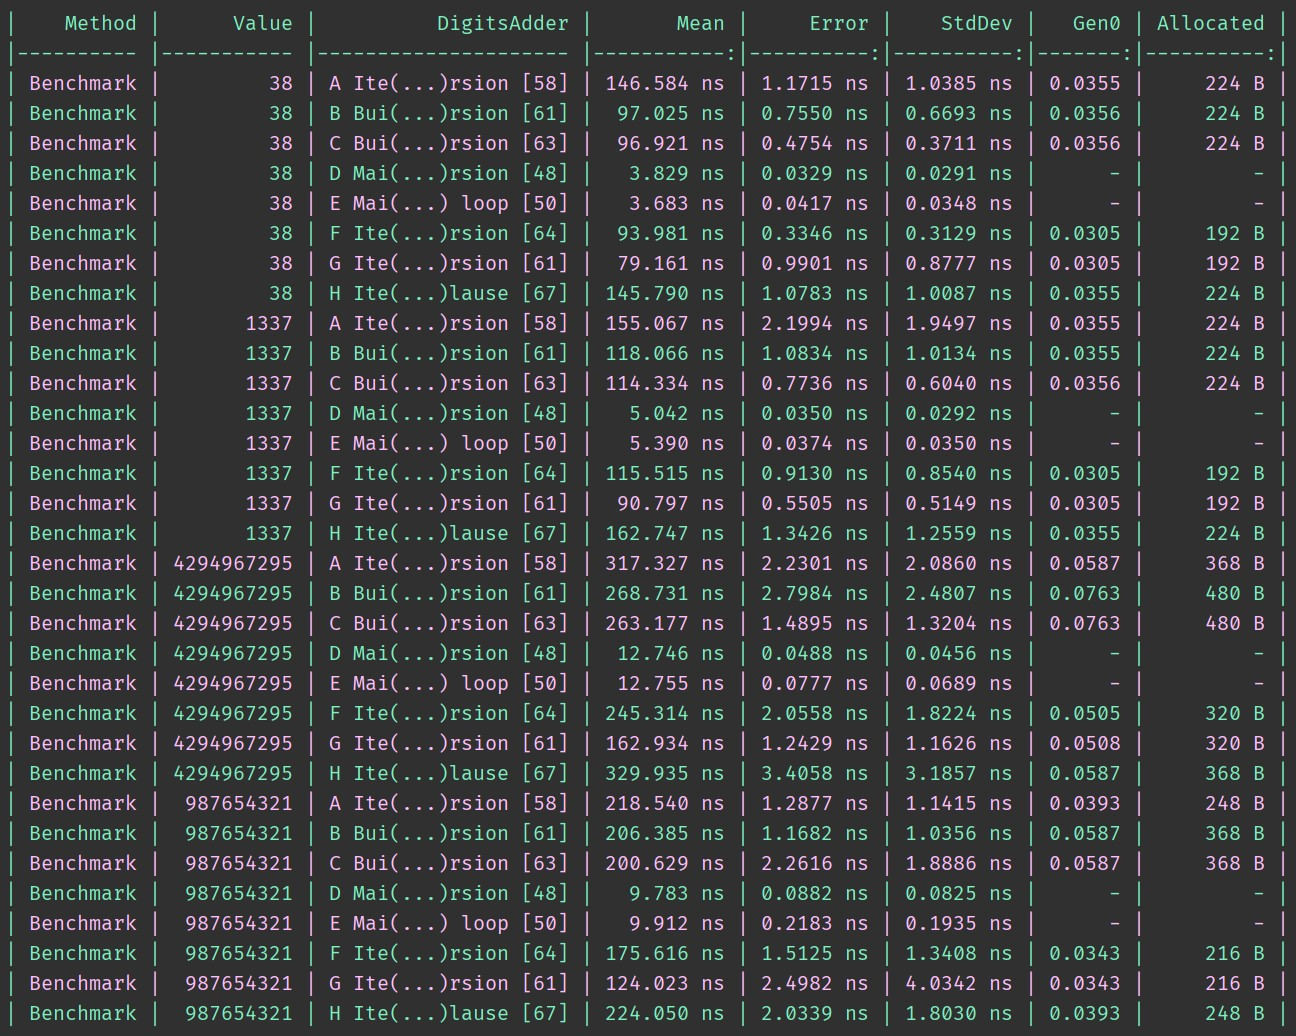
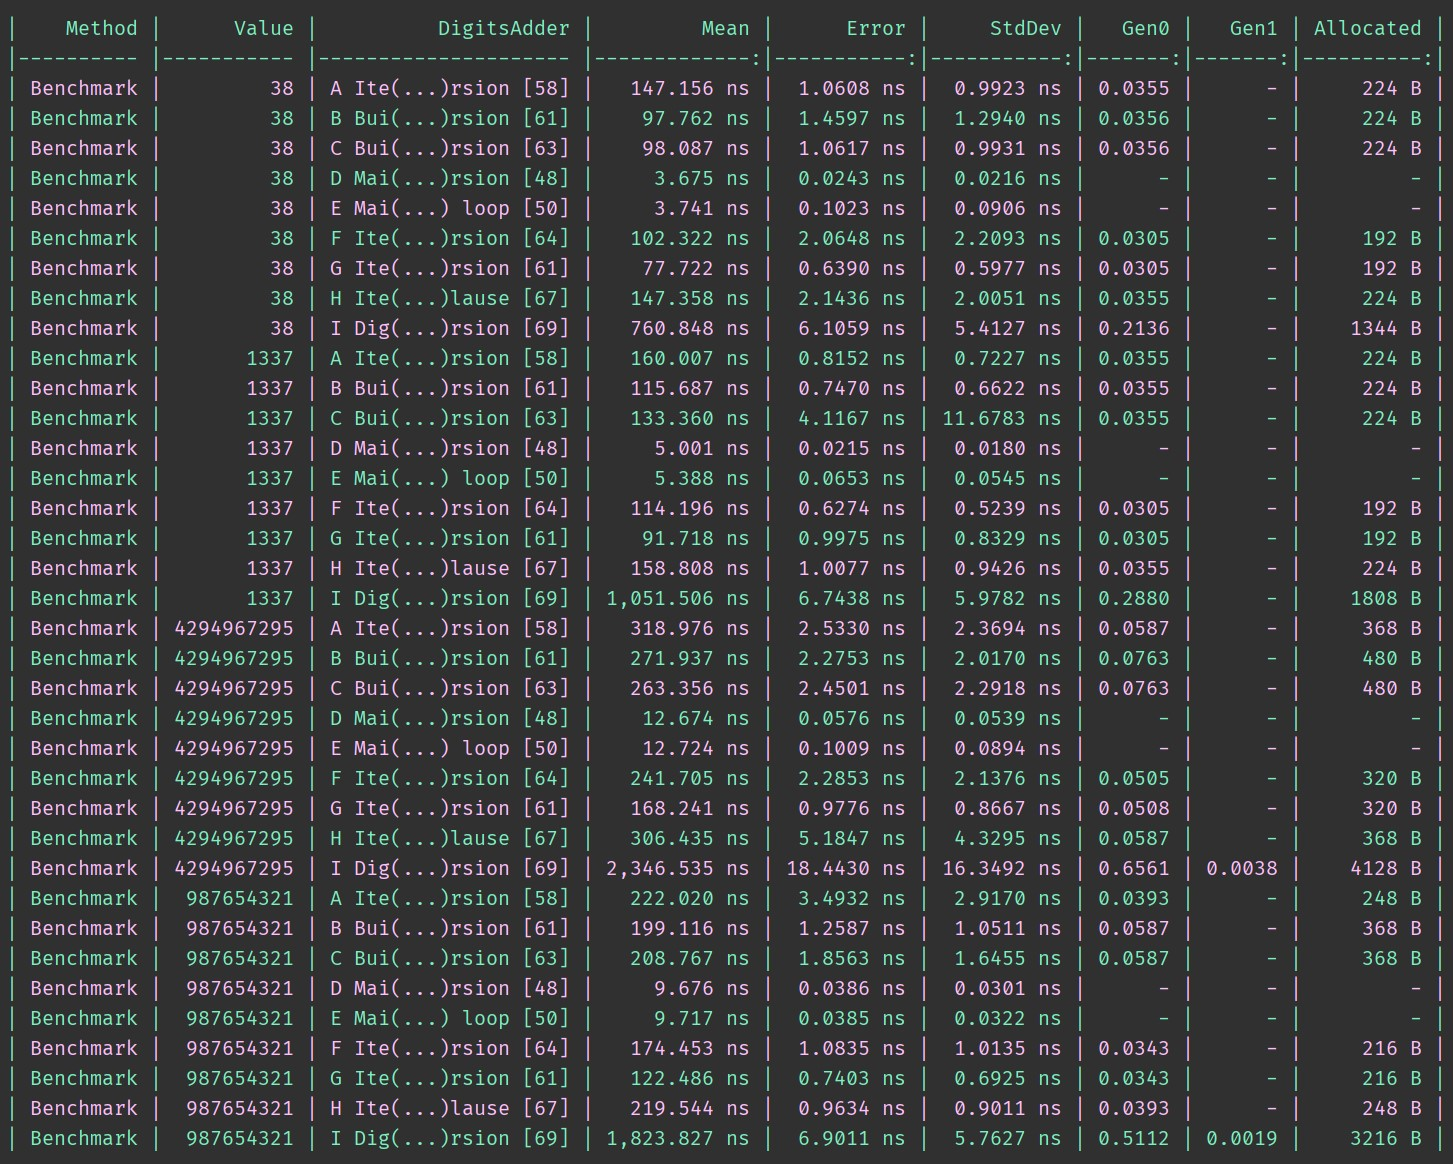
Added AddDigits that uses regex to get digits
As expected this performed abysmally compared to the other implementations that I had tried. This was added purely to demonstrate another technique.

Although the regex was not compiled considering it was the only one in use it should have been cached after compilation and, as such, pre-compilation _shouldn't_ have made any significant difference.

Changed region(s): [[0.0, 0.0, 1.0, 0.9884]]

diff --git a/src/AddDigits/I_RegexAndAggregateNumericValueWithRecursion.cs b/src/AddDigits/I_RegexAndAggregateNumericValueWithRecursion.cs
@@ -1,0 +1,28 @@
+using System.Diagnostics.CodeAnalysis;
+using System.Text.RegularExpressions;
+
+namespace Dgt.Dojo.AddDigits;
+
+/// <summary>
+/// Repeatedly adds digits of a non-negative integer until the result only has a single digit.
+/// </summary>
+/// <remarks>
+/// Captures individual digits using a regular expression so they can be enumerated. The captures can then be
+/// aggregated by converting into a <see cref="uint"/> to get the integer value for that character. If the answer
+/// still doesn't meet the criteria a tail-recursive call can be made to further reduce the return value.
+/// </remarks>
+[SuppressMessage("ReSharper", "UnusedType.Global")]
+[SuppressMessage("ReSharper", "InconsistentNaming")]
+[SuppressMessage("ReSharper", "TailRecursiveCall")]
+public class I_RegexAndAggregateNumericValueWithRecursion : IDigitsAdder
+{
+    public byte AddDigits(uint value)
+    {
+        var digitMatches = Regex.Matches(value.ToString(), @"\d").Cast<Match>();
+        var sum = digitMatches.Aggregate(0u, (total, match) => total + Convert.ToUInt32(match.Value));
+    
+        return sum < 10 ? (byte)sum : AddDigits(sum);
+    }
+
+    public override string ToString() => "I Digits from regex and aggregate numeric values codes with recursion";
+}

diff --git a/docs/AddDigits.md b/docs/AddDigits.md
@@ -3,6 +3,8 @@
 ## Performance Observations
 
 * Treating the input as numeric and performing math operations against it was almost always faster than treating the input as a `string` and iterating the individual characters
+* Capturing digits using a regular expression rather than converting to a `string` and then a `char[]` is orders of magnitude slower
+  * This also allocates significantly more memory on the heap
 * Maintaining a running total of individual digits rather than maintaining a `List<T>` and then summing it was orders of magnitude faster
   * This also had the advantage of eliminating any heap allocations and therefore garbage collection
 * Using `Math.DivRem` was marginally faster than using a combination of the modulo and division operators
